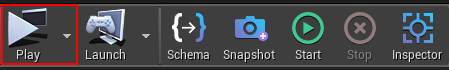
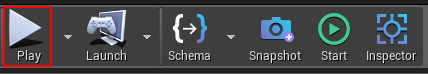
Edited initial schema generation instructions
Edited schema gen instruction in multiserver, template and porting guide.
Updated toolbar screenshots
Added new schema gen info to schema.md

diff --git a/SpatialGDK/Documentation/content/spatialos-concepts/schema.md b/SpatialGDK/Documentation/content/spatialos-concepts/schema.md
@@ -7,7 +7,17 @@ Schema is defined in `.schema` files and written in schemalang.  When you use th
 
 #### How to generate schema
 
-To generate schema, select the **Schema** button in the [GDK Toolbar]({{urlRoot}}/content/toolbars#buttons). The GDK automatically iterates through classes with replicated properties to generate the required schema files and then updates the [SchemaDatabase]({{urlRoot}}/content/glossary#schemadatabase).
+**Generating Schema for the first time**
+
+In the Unreal Editor, on the GDK toolbar, open the **Schema** drop-down menu and select **Schema (Full Scan)**. <br/>You must run a full scan the first time you generate Schema for a project. When you select Full Scan, the GDK automatically iterates through all classes with replicated properties to generate the required schema files and then updates the [SchemaDatabase](http://localhost:8080/reference/1.0/content/glossary#schemadatabase). <br/>
+
+![Toolbar]({{assetRoot}}assets/screen-grabs/toolbar/schema-button-full-scan.png)
+
+_Image: In the GDK toolbar in the Unreal Editor, select **Schema (Full Scan)**_
+
+**Generating Schema after running a full scan**
+
+To generate schema after you have run a full scan, select  **Schema** in the [GDK Toolbar]({{urlRoot}}/content/toolbars#buttons). The GDK automatically iterates through classes with replicated properties that aren't already referenecd in the SchemaDatabase. It then automatically generates the required schema files and updates the [SchemaDatabase]({{urlRoot}}/content/glossary#schemadatabase).
 
 ![Toolbar]({{assetRoot}}assets/screen-grabs/toolbar/schema-button.png)
 
@@ -24,7 +34,6 @@ The GDK only generates schema for classes currently loaded into memory. This mea
 #### Schema deletion 
 
 When you generate schema, the GDK verifies that any classes referenced in the [SchemaDatabase]({{urlRoot}}/content/glossary#schemadatabase) still exist. If you delete a class, the GDK removes it from the SchemaDatabase the next time you generate schema. 
-
 
 ## Schema and source control 
 

diff --git a/SpatialGDK/Documentation/content/tutorials/multiserver-shooter/tutorial-multiserver-setup.md b/SpatialGDK/Documentation/content/tutorials/multiserver-shooter/tutorial-multiserver-setup.md
@@ -59,12 +59,13 @@ In this step, you're going to build the Unreal GDK's dependencies.
 1. Press F5 on your keyboard or select **Local Windows Debugger** in the Visual Studio toolbar to open your project in the Unreal Editor.<br/>
 ![Visual Studio toolbar]({{assetRoot}}assets/set-up-template/template-vs-toolbar.png)<br/>
 _Image: The Visual Studio toolbar_<br/><br/>
-1. In the GDK toolbar, select **Schema** to generate the SpatialOS schema based on your Unreal project. (Schema is a definition of the components and entities your SpatialOS world can have, see the glossary for more details on [schema](https://docs.improbable.io/reference/latest/shared/glossary).) <br/>
-![Toolbar]({{assetRoot}}assets/screen-grabs/toolbar/schema-button.png)<br/>
-_Image: On the GDK toolbar in the Unreal Editor select **Schema**_<br/><br/>
-1. Select [**Snapshot**]({{urlRoot}}/content/generating-a-snapshot) to generate a snapshot (a representation of the state of the SpatialOS world) which will be used to start the deployment.<br/>
+1. In the Unreal Editor, on the GDK toolbar, open the **Schema** drop-down menu and select **Schema (Full Scan)**. <br/> 
+**Note:** You only have to run a full scan the first time you generate schema for a project. Perform any subsequent schema generation by selecting **Schema** on the GDK toolbar. <br/>
+![Toolbar]({{assetRoot}}assets/screen-grabs/toolbar/schema-button-full-scan.png)<br/>
+_Image: On the GDK toolbar in the Unreal Editor select **Schema (Full Scan)**_<br/>
+1. Select **Snapshot** to generate a snapshot.<br/>
 ![Toolbar]({{assetRoot}}assets/screen-grabs/toolbar/snapshot-button.png)<br/>
-_Image: On the GDK toolbar in the Unreal Editor select **Snapshot**_<br/><br/>
+_Image: On the GDK toolbar in the Unreal Editor select **Snapshot**_<br/>
 
 <br/>
 ### Deploy the project locally

diff --git a/SpatialGDK/Documentation/content/tutorials/tutorial-porting-guide.md b/SpatialGDK/Documentation/content/tutorials/tutorial-porting-guide.md
@@ -168,11 +168,13 @@ You must modify your `GameInstance` class to work properly with the GDK.
 ### 6. Generate schema and a snapshot
 You need to generate [schema]({{urlRoot}}/content/spatialos-concepts/schema) and generate a [snapshot]({{urlRoot}}/content/spatialos-concepts/generating-a-snapshot) before you start your deployment. To do this:
 
-1. In the Unreal Editor, on the [GDK toolbar]({{urlRoot}}/content/toolbars), select **Schema** to run the [Schema Generator]({{urlRoot}}/content/glossary#schema-generation).
-1. On the same toolbar, select **Snapshot**, which will generate a snapshot for the map currently open in the editor.
-
-    ![Toolbar]({{assetRoot}}assets/screen-grabs/toolbar/toolbars-basic.png)<br/>
-    _Image: The GDK for Unreal toolbar_<br/>
+1. In the Unreal Editor, on the GDK toolbar, open the **Schema** drop-down menu and select **Schema (Full Scan)**. <br/>
+     **Note:** You only have to run a full scan the first time you generate schema for a project. Perform any subsequent schema generation by selecting **Schema** on the GDK toolbar. 
+       ![Toolbar]({{assetRoot}}assets/screen-grabs/toolbar/schema-button-full-scan.png)<br/>
+     _Image: On the GDK toolbar in the Unreal Editor select **Schema (Full Scan)**_<br/>
+1. Select **Snapshot** to generate a snapshot.<br/>
+    ![Toolbar]({{assetRoot}}assets/screen-grabs/toolbar/snapshot-button.png)<br/>
+    _Image: On the GDK toolbar in the Unreal Editor select **Snapshot**_<br/>
 
 ### 7. Launch your game
 1. Switch your game project to use the SpatialOS networking. To do this: 

diff --git a/SpatialGDK/Documentation/content/get-started/gdk-template.md b/SpatialGDK/Documentation/content/get-started/gdk-template.md
@@ -82,9 +82,10 @@ You'll find out more about schema, snapshots and workers later on in this tutori
 
 Before you launch a deployment (local or cloud) you must generate [schema]({{urlRoot}}/content/spatialos-concepts/schema) and a [snapshot]({{urlRoot}}/content/spatialos-concepts/generating-a-snapshot). 
 
-1. In the Unreal Editor, on the GDK toolbar, select **Schema** to generate schema.<br/>
-![Toolbar]({{assetRoot}}assets/screen-grabs/toolbar/schema-button.png)<br/>
-_Image: On the GDK toolbar in the Unreal Editor select **Schema**_<br/>
+1. In the Unreal Editor, on the GDK toolbar, open the **Schema** drop-down menu and select **Schema (Full Scan)**. <br/> 
+**Note:** You only have to run a full scan the first time you generate schema for a project. Perform any subsequent schema generation by selecting **Schema** on the GDK toolbar. <br/>
+![Toolbar]({{assetRoot}}assets/screen-grabs/toolbar/schema-button-full-scan.png)<br/>
+_Image: On the GDK toolbar in the Unreal Editor select **Schema (Full Scan)**_<br/>
 1. Select **Snapshot** to generate a snapshot.<br/>
 ![Toolbar]({{assetRoot}}assets/screen-grabs/toolbar/snapshot-button.png)<br/>
 _Image: On the GDK toolbar in the Unreal Editor select **Snapshot**_<br/>
